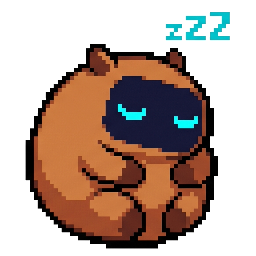
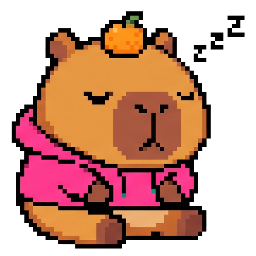
Mascot v2: original capybara face (yuzu, pink hoodie) replacing the visor look; crew rule: Fable orchestrates, Opus/Sonnet do the work

diff --git a/PLAN.md b/PLAN.md
@@ -36,14 +36,16 @@ capygen/
 Run: `corepack pnpm i` · `pnpm dev` (Vite + Electron) · `pnpm test` (vitest) · `pnpm e2e`
 (Playwright Electron) · `pnpm build:win` (electron-builder NSIS + portable).
 
-## Crew (accepted by the user's "loop until done"; recorded once)
+## Crew (user rule, 2026-09-05: "orchestrate between Opus 5 and Sonnet to save tokens; Fable is the orchestrator and task setter")
 
 | Role | Model | Used for |
 |---|---|---|
-| Lead / designer | session model (Claude Fable 5.1) | decomposition, judgment, final review |
-| Hard | session model (strongest reasoner; up-route is a no-op) | engine, dispatcher, routing, packaging |
-| Mechanical | Sonnet 5 | page ports from the reference, boilerplate, docs, fixtures |
-| Review | Opus 5 (different model from implementers) | adversarial verify waves |
+| Lead / task setter | session model (Claude Fable 5.1) — never a subagent | decomposition, task briefs, acceptance, final judgment |
+| Hard | Opus 5 (`model: "opus"`) | engine, dispatcher, routing, packaging, anything that failed once |
+| Mechanical | Sonnet 5 (`model: "sonnet"`) | page ports from the reference, boilerplate, docs, fixtures, consolidation |
+| Review | the other one: Sonnet reviews Opus work, Opus reviews Sonnet work | adversarial verify waves |
+
+Every workflow `agent()` call sets `model` explicitly; Fable does no subagent work itself.
 
 ## Build Phases
 

diff --git a/CLAUDE.md b/CLAUDE.md
@@ -17,4 +17,8 @@ Read `SPEC.md` (contract), `PLAN.md` (build order, assumptions), `CONTEXT.md` (t
   `corepack pnpm spike` (engine capability proof). Build: `corepack pnpm build:win`.
 - **Every change:** restate the ask, name the files, touch only those, run the check, append one
   line to `PROJECT_LOG.md`. Keep `COMPAT.md` in sync with any CLI/SDK contract the app relies on.
-- Crew for orchestrated batches is recorded in `PLAN.md` §Crew.
+- Crew for orchestrated batches is recorded in `PLAN.md` §Crew: the session model (Fable) only
+  orchestrates and sets tasks; subagents run on Opus 5 (hard) or Sonnet 5 (mechanical), and the
+  reviewer is the other model. Set `model` on every workflow `agent()` call.
+- Mascot: a real capybara face (bead eyes, blunt muzzle, ears, yuzu slice on the head, pink
+  hoodie with a `>_` badge) — never a visor/screen face; the user rejected the Codex-like look.
